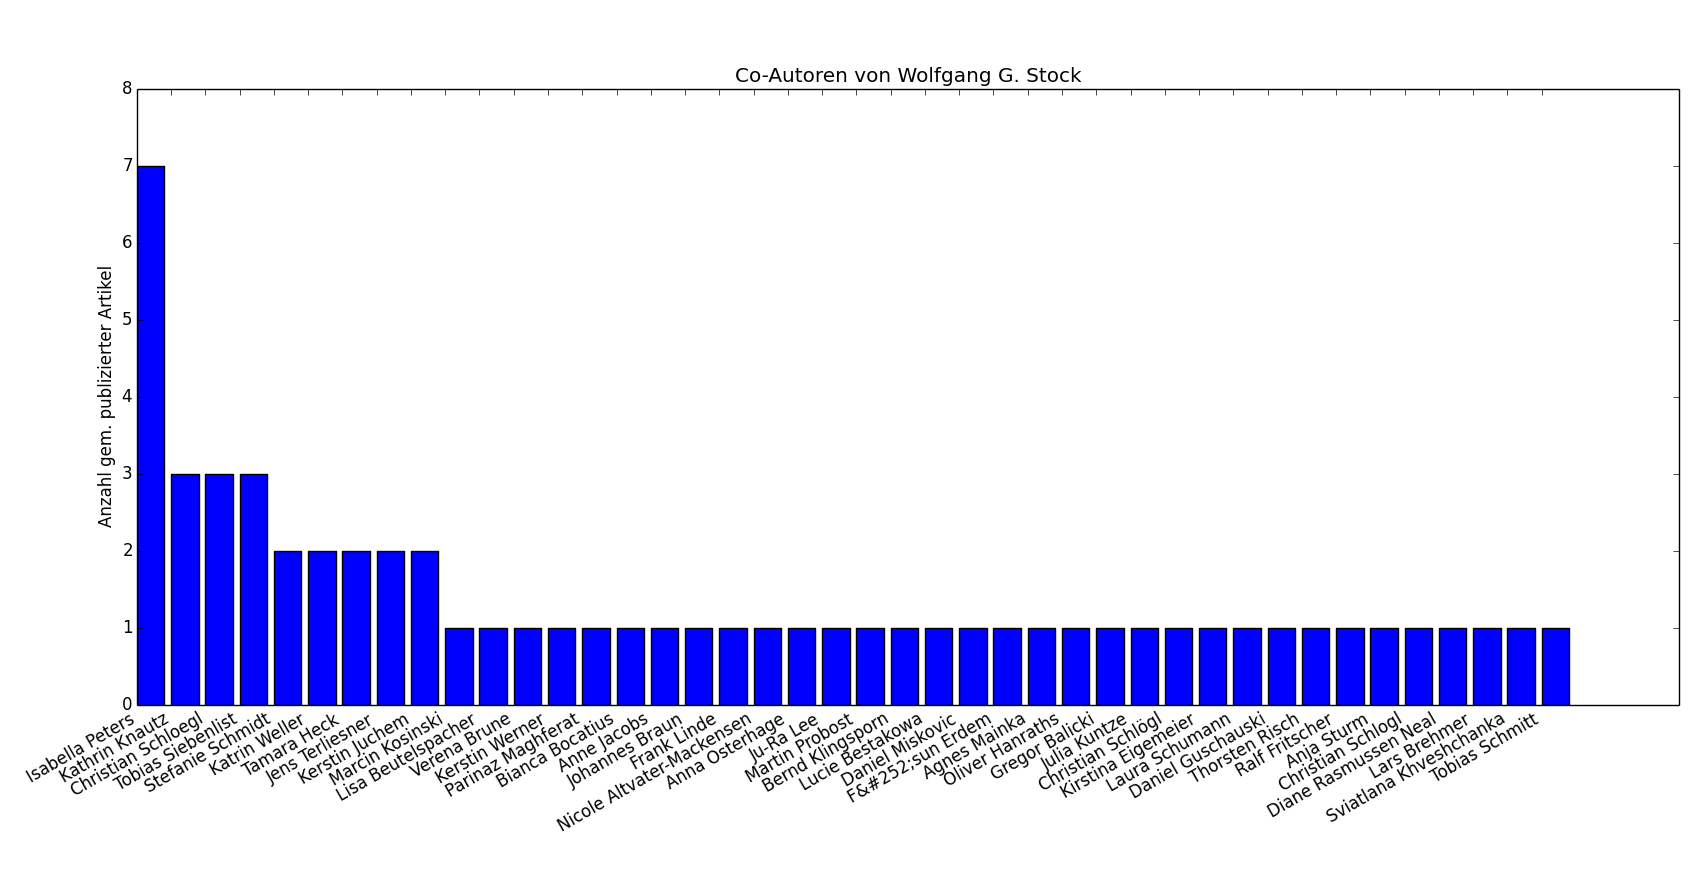
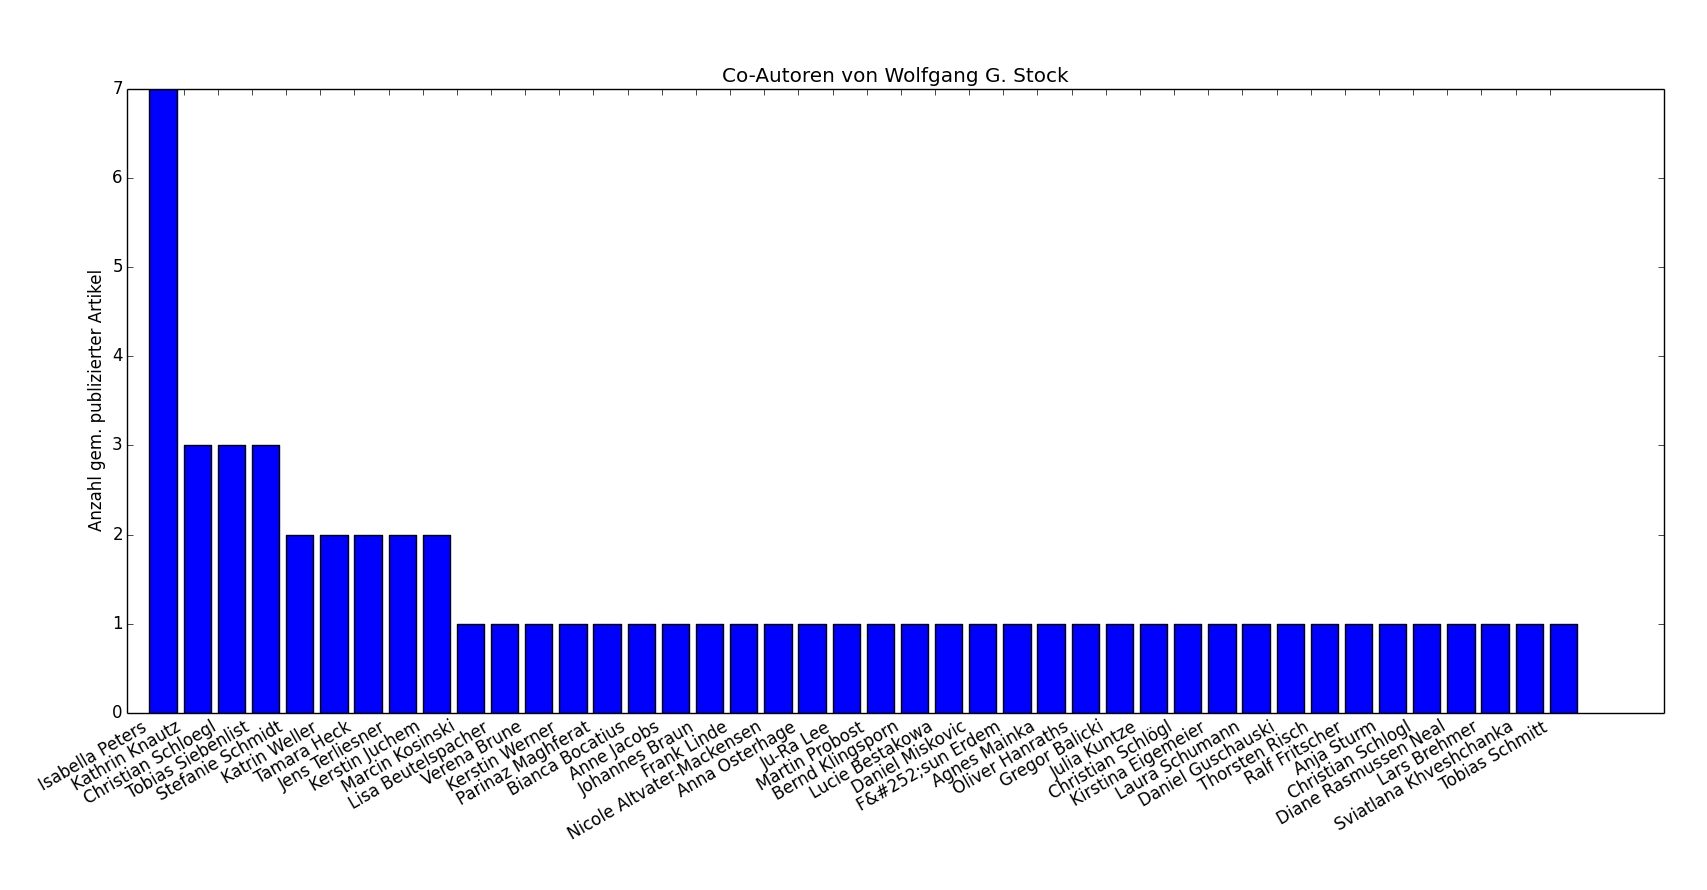
Added Stuff
Added: plotting for ontology-tags
functions for graph-drawings
images for the plots

Changed region(s): [[0.0, 0.091, 0.9936, 0.9404], [0.4347, 0.0607, 0.621, 0.091]]

diff --git a/mendeley-oapi-example-master/project_3.py b/mendeley-oapi-example-master/project_3.py
@@ -16,8 +16,39 @@ def open_from_pickle(filename):
     with open("%s.pk" % filename, "rb") as p_input:
         r_object = pickle.load(p_input)
     return r_object
+    
+def draw_barchart(names, values, ylabel, title):
+    ind=range(len(values))
+    fig = p.figure()
+    ax = fig.add_subplot(1,1,1)
+    ax.bar(ind, values)
+    ax.set_ylabel(ylabel)
+    ax.set_title(title)
+    ax.set_xticks(ind)
+    ax.set_xticklabels(names)
+    fig.autofmt_xdate()
+    p.show()    
 
+def draw_piechart(names, values):
+    t= 0
+    sizes=[]
+    for element in values:
+        t = t+element
+    for element in values:
+        x = (float(element)/t)*100
+        sizes.append(x)
+    p.pie(sizes, labels=names, autopct='%1.1f%%', startangle=90)
+    p.axis('equal')
+    p.show()
 
+def draw_timeline(names, values, ylabel, title):
+    p.plot_date(x=names, y=values, fmt="-")
+    p.ylabel(ylabel)
+    p.title(title)
+    p.ylim(ymin=0)
+    p.grid=True
+    p.show()
+    
 if __name__ == "__main__":
 
 
@@ -68,29 +99,21 @@ if __name__ == "__main__":
 
     # ### Plotting ###
 
+    """
     # Top20 Tags
-    # tags = open_from_pickle("top20tags")
-    # tags_value = []
-    # tags_name = []
-    # for element in tags:
-    #   tags_value.append(element["count"])
-    #   tags_name.append(element["name"].encode("utf-8"))
-    # ind=range(len(tags_value))
-    # fig = p.figure()
-    # ax = fig.add_subplot(1,1,1)
-    # ax.bar(ind, tags_value, align='center')
-    # ax.set_ylabel('Anzahl')
-    # ax.set_title("Top20 Tags der Kategorie 'Computer and Informationscience'")
-    # ax.set_xticks(ind)
-    # ax.set_xticklabels(tags_name)
-    # fig.autofmt_xdate()
-    # p.show()
-
+    tags = open_from_pickle("top20tags")
+    tags_value = []
+    tags_name = []
+    for element in tags:
+        tags_value.append(element["count"])
+        tags_name.append(element["name"].encode("utf-8"))
+    draw_barchart(tags_name, tags_value, "Haeufigkeit des vergebenen Tags", "Top20 Tags der Kategorie 'Computer and Informationscience'")
+    """
+    
+    
     """
     # Overall Publications
     publications = open_from_pickle("overall_pub")
-    sizes = []
-    t = 0
     pub_years = {}
     pub_syears = []
     pub_scount = []
@@ -104,15 +127,9 @@ if __name__ == "__main__":
     for element in sorted_years:
         pub_syears.append(element[0])
         pub_scount.append(element[1])
-    for element in pub_scount:
-        t = t+element
-    for element in pub_scount:
-        x = (float(element)/t)*100
-        sizes.append(x)
-    p.pie(sizes, labels=pub_syears, autopct='%1.1f%%', startangle=90)
-    p.axis('equal')
-    p.show()
+    draw_piechart(pub_syears, pub_scount)
     """
+    
     """
     # Stock Publications/Year
     publications = open_from_pickle("pub_stock")
@@ -140,14 +157,10 @@ if __name__ == "__main__":
     for element in sorted_years:
         pub_syears.append(datetime.strptime(str(element[0]) , '%Y'))
         pub_scount.append(element[1])
-    p.plot_date(x=pub_syears, y=pub_scount, fmt="-")
-    p.ylabel("Publications")
-    p.title("Number of Publications/year from Wolfgang G. Stock")
-    p.ylim(ymin=0)
-    p.grid=True
-    p.show()
+    draw_timeline(pub_syears, pub_scount, "Anzahl der Publikationen", "Anzahl der Publikationen/Jahr von Wolfgang G. Stock")
     """
     
+    """
     # Stock Co-Authors
     publications = open_from_pickle("pub_stock")["documents"]
     authors = {}
@@ -165,15 +178,17 @@ if __name__ == "__main__":
     for element in sorted_authors:
         authors_name.append(element[0])
         authors_value.append(element[1])
-    ind=range(len(authors_value))
-    fig = p.figure()
-    ax = fig.add_subplot(1,1,1)
-    ax.bar(ind, authors_value)
-    ax.set_ylabel('Anzahl gem. publizierter Artikel')
-    ax.set_title("Co-Autoren von Wolfgang G. Stock")
-    ax.set_xticks(ind)
-    ax.set_xticklabels(authors_name)
-    fig.autofmt_xdate()
-    p.ylim(ymax=8)
-    p.show()    
+    draw_barchart(authors_name, authors_value, "Anzahl gem. publizierter Artikel", "Co-Autoren von Wolfgang G. Stock") 
+    """
     
+    """
+    # Ontology
+    ontology = open_from_pickle("onto_tagged")
+    categories = []
+    values = []
+    for element in ontology:
+        if ontology[element] != 0:
+            categories.append(element)
+            values.append(ontology[element])
+    draw_barchart(categories, values, "Haeufigkeit der Vergabe", "Mit 'ontology' getaggte Kategorien")
+    """
